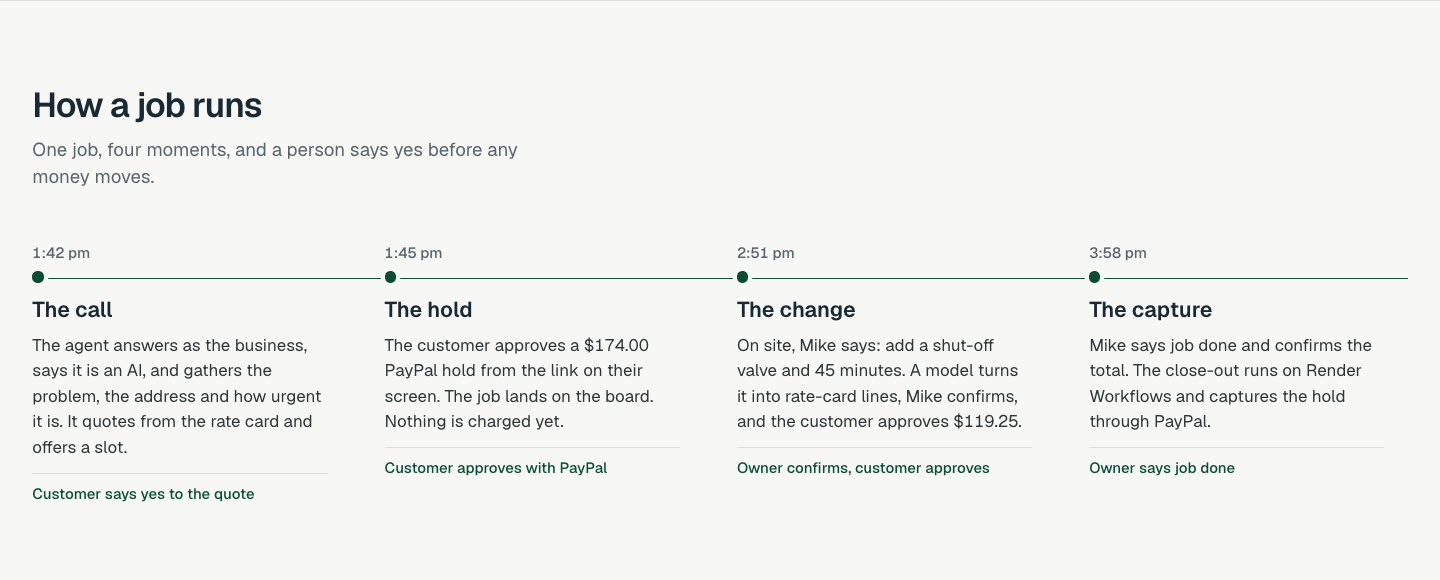
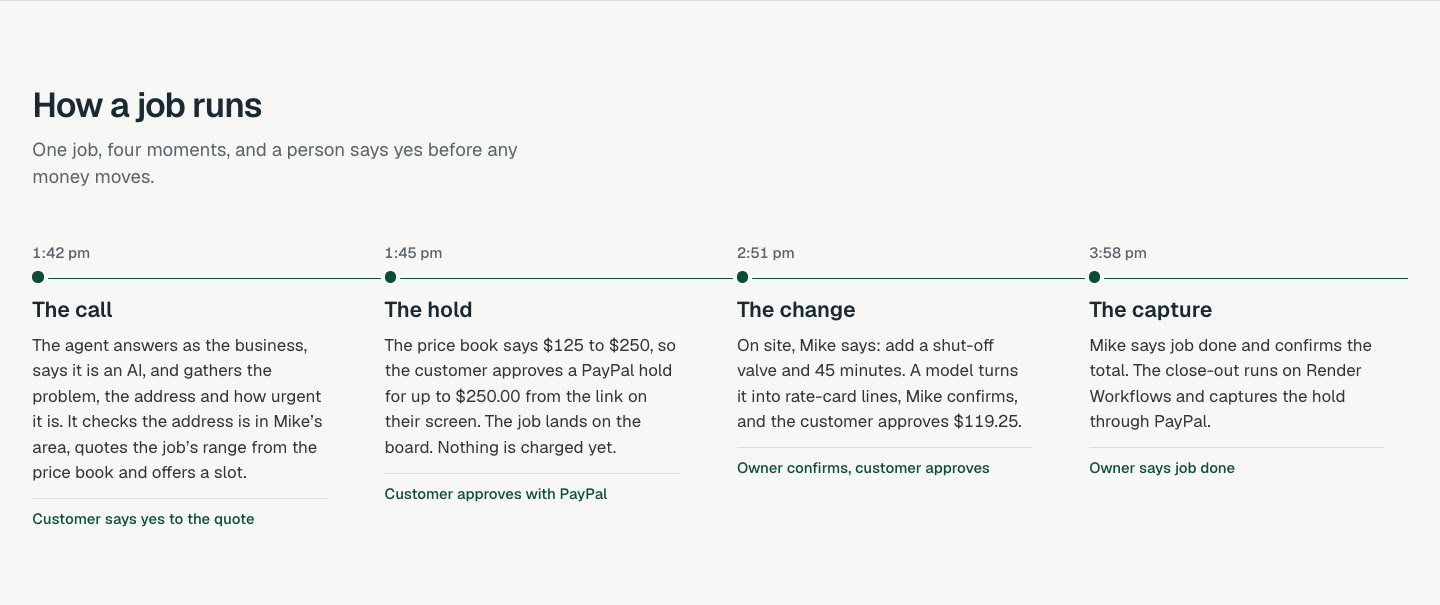
Show the price-book demo on the landing and in the README
The demo job is now a faucet leak repair from the price book, $125 to
$250, held at $250.00 in Saginaw. The landing's tiles, status track,
transcript, totals and four-moment timeline use it, and the money
ledger shows the whole story: the $250.00 hold, the $119.25 change
order, $190.00 captured at job done with $60.00 released, and $309.25
paid. The README explains the price book, the service area and the
top-of-range hold, and its screenshots and banner are re-rendered.

Changed region(s): [[0.0, 0.4034, 0.9688, 0.8379], [0.0, 0.1552, 0.375, 0.3414], [0.0, 0.8379, 0.1875, 0.869]]

diff --git a/src/app/page.tsx b/src/app/page.tsx
@@ -31,14 +31,14 @@ const LIVE_SLOT = { start: 14, end: 16 };
 const TRANSCRIPT = [
   { who: "ai", at: "1:42 pm", text: "Thanks for calling Mike’s Plumbing, this is Mike’s AI assistant. What’s going on?" },
   { who: "caller", at: "1:43 pm", text: "My kitchen tap won’t stop dripping." },
-  { who: "ai", at: "1:44 pm", text: "I can book you this afternoon, 2 to 4 pm. The hold is $174.00. Shall I send the link?" },
+  { who: "ai", at: "1:44 pm", text: "I can book you this afternoon, 2 to 4 pm. PayPal will hold up to $250.00. Shall I send the link?" },
 ] as const;
 
 type Step = { id: string; label: string; lines: string[]; state: "done" | "active" | "waiting" | "idle"; icon: typeof Phone };
 const STEPS: Step[] = [
   { id: "call", label: "Call", lines: ["In progress"], state: "active", icon: Phone },
   { id: "booked", label: "Booked", lines: ["Today", "2:00 – 4:00 pm"], state: "done", icon: CalendarDays },
-  { id: "held", label: "Held", lines: ["$174.00", "with PayPal"], state: "done", icon: Lock },
+  { id: "held", label: "Held", lines: ["$250.00", "with PayPal"], state: "done", icon: Lock },
   { id: "change", label: "Change", lines: ["$119.25", "waiting"], state: "waiting", icon: DollarSign },
   { id: "captured", label: "Captured", lines: ["—"], state: "idle", icon: Check },
 ];
@@ -47,13 +47,13 @@ const RUN = [
   {
     time: "1:42 pm",
     title: "The call",
-    text: "The agent answers as the business, says it is an AI, and gathers the problem, the address and how urgent it is. It quotes from the rate card and offers a slot.",
+    text: "The agent answers as the business, says it is an AI, and gathers the problem, the address and how urgent it is. It checks the address is in Mike’s area, quotes the job’s range from the price book and offers a slot.",
     yes: "Customer says yes to the quote",
   },
   {
     time: "1:45 pm",
     title: "The hold",
-    text: "The customer approves a $174.00 PayPal hold from the link on their screen. The job lands on the board. Nothing is charged yet.",
+    text: "The price book says $125 to $250, so the customer approves a PayPal hold for up to $250.00 from the link on their screen. The job lands on the board. Nothing is charged yet.",
     yes: "Customer approves with PayPal",
   },
   {
@@ -126,12 +126,12 @@ export default function Home() {
                 </span>
                 <span className={s.tileTitle}>
                   <span className={s.tileLabel}>Hold</span>
-                  <span className={`${s.tileAmount} ${s.green}`}>$174.00</span>
+                  <span className={`${s.tileAmount} ${s.green}`}>$250.00</span>
                 </span>
               </div>
               <p className={s.tileText}>
-                (call-out $79 +{" "}
-                <br />1 hour labour $95)
+                (faucet leak repair,{" "}
+                <br />$125 to $250, held at the top)
               </p>
               <p className={`${s.tileStatus} ${s.green}`}>Held with PayPal</p>
             </li>
@@ -175,7 +175,7 @@ export default function Home() {
         <section className={s.board} aria-label="Demo schedule for Mike’s Plumbing">
           <div className={s.boardHead}>
             <span className={s.boardDate}>Today</span>
-            <span className={s.boardOwner}>Mike’s day, Springfield</span>
+            <span className={s.boardOwner}>Mike’s day, Saginaw</span>
             <span className={s.legend}>
               <span className={s.legendBooked}>Booked</span>
               <span className={s.legendHeld}>Held</span>
@@ -265,7 +265,7 @@ export default function Home() {
             <div className={s.stat}>
               <CircleDollarSign aria-hidden="true" className={`${s.statIcon} ${s.green}`} strokeWidth={1.75} />
               <dt>Held</dt>
-              <dd className={`${s.statValue} ${s.green}`}>$174.00</dd>
+              <dd className={`${s.statValue} ${s.green}`}>$250.00</dd>
               <dd className={s.statSub}>1 job</dd>
             </div>
             <div className={s.stat}>
@@ -307,11 +307,14 @@ export default function Home() {
             The money, line by line
           </h2>
           <p className={s.sectionLead}>
-            Every price comes from the owner’s rate card. The agent quotes, reads the amount back and waits for a yes; it can
-            never capture or refund.
+            Every price comes from Mike’s price book. The agent quotes the range, reads the hold back and waits for a yes;
+            it can never capture or refund.
           </p>
           <ul className={s.rules}>
-            <li>The hold is a PayPal authorization: the customer’s money is reserved, not taken.</li>
+            <li>
+              The hold is a PayPal authorization for the top of the price-book range: the customer’s money is reserved, not
+              taken, and they never pay more than they approved.
+            </li>
             <li>
               PayPal lets a hold grow by 15% at most, so a bigger change becomes its own payment that the customer approves.
             </li>
@@ -337,18 +340,13 @@ export default function Home() {
               </th>
             </tr>
             <tr>
-              <td>Call-out</td>
+              <td>Faucet leak repair, price book $125 to $250</td>
               <td>1</td>
-              <td>$79.00</td>
-            </tr>
-            <tr>
-              <td>Labour, 15 minutes</td>
-              <td>4</td>
-              <td>$95.00</td>
+              <td>$250.00</td>
             </tr>
             <tr className={s.ledgerTotal}>
-              <td colSpan={2}>Held with PayPal</td>
-              <td className={s.green}>$174.00</td>
+              <td colSpan={2}>Held with PayPal (the top of the range)</td>
+              <td className={s.green}>$250.00</td>
             </tr>
             <tr className={s.ledgerGroup}>
               <th scope="rowgroup" colSpan={3}>
@@ -369,11 +367,26 @@ export default function Home() {
               <td colSpan={2}>Second PayPal payment</td>
               <td className={s.amber}>$119.25</td>
             </tr>
+            <tr className={s.ledgerGroup}>
+              <th scope="rowgroup" colSpan={3}>
+                At job done, Mike charges the real cost
+              </th>
+            </tr>
+            <tr>
+              <td>Faucet leak repair, captured from the hold</td>
+              <td>1</td>
+              <td>$190.00</td>
+            </tr>
+            <tr>
+              <td>Released back to the customer</td>
+              <td></td>
+              <td>$60.00</td>
+            </tr>
           </tbody>
           <tfoot>
             <tr>
-              <td colSpan={2}>Job total when Mike says job done</td>
-              <td>$293.25</td>
+              <td colSpan={2}>The customer pays $190.00 + $119.25</td>
+              <td>$309.25</td>
             </tr>
           </tfoot>
         </table>

diff --git a/README.md b/README.md
@@ -54,19 +54,20 @@ amount when the work is done. The demo business is Mike's Plumbing, which is fic
 
 ## How it works
 
-1. **The call.** A customer phones the business (a Twilio number) or calls from the browser. The ElevenLabs agent says
-   it is an AI assistant answering for Mike, gathers the problem, the address and how urgent it is, quotes from the
-   rate card and offers a slot.
+1. **The call.** A customer in Mike's area (the Saginaw Tri-Cities, Michigan) phones the business or calls from the
+   browser. The ElevenLabs agent says it is an AI assistant answering for Mike, finds the job in Mike's price book and
+   quotes its range: a dripping faucet is $125 to $250. It offers a slot.
 2. **The hold.** After reading the amount back and hearing a yes, the agent creates a PayPal hold (Orders v2,
-   `intent: AUTHORIZE`) for $174.00 and gives the customer a job code. They approve it on their phone; nothing is
-   charged yet.
+   `intent: AUTHORIZE`) for the top of the range, $250.00, and gives the customer a job code. They approve it on their
+   phone; nothing is charged yet. Major jobs get an estimate visit instead, with no payment.
 3. **The change order.** On site, Mike says "add a shut-off valve and 45 more minutes". It becomes rate-card lines
    ($119.25), Mike confirms, and the customer approves it as a second PayPal payment. PayPal lets a hold grow by 15% at
    most, so a bigger change is its own payment.
-4. **The capture.** Mike says "job done" and confirms the total. The close-out captures the hold and sends a PayPal
-   invoice: marked paid as a receipt, or payable for any leftover balance.
+4. **The capture.** Mike says "job done" and enters the real cost, say $190.00. The close-out captures that much from
+   the hold, releases the rest, and sends a PayPal invoice: marked paid as a receipt, or payable for any leftover
+   balance.
 
-Nobody pays without saying yes, and every price comes from the rate card, checked in code.
+Nobody pays without saying yes, nobody pays more than they approved, and every price comes from the price book, checked in code.
 
 <img src="assets/screens/landing.jpg" width="100%" alt="Ringside landing page: the pitch and call button on the left, the owner's day board on the right with a live job card, its transcript and a status track">
 
@@ -96,7 +97,8 @@ Measured against the real PayPal sandbox and the real phone line on 2026-11-05.
 |---|---|---|
 | Phone line | Twilio US number, imported into ElevenLabs | Callers dial the business and land straight on the agent ([`scripts/gates/setup-voice.mjs`](scripts/gates/setup-voice.mjs)) |
 | Voice agent | ElevenLabs Agents; LLM `deepseek-v41-flash` (hosted by ElevenLabs); voice "Chris" on `eleven_v4_turbo` | Answers as Mike's AI assistant and gathers the job; its server tools read the rate card, find open windows, save the quote, book it and send the PayPal hold link only after the customer says yes ([`src/lib/agent-tools.ts`](src/lib/agent-tools.ts), [`src/lib/slots.ts`](src/lib/slots.ts)) |
-| Prices | The rate card in code, money in integer cents | Every price comes from here; labour is billed in 15-minute blocks of $23.75 ([`src/lib/rate-card.ts`](src/lib/rate-card.ts), [`src/lib/money.ts`](src/lib/money.ts)) |
+| Prices | Mike's price book (about 140 jobs as USD ranges) and fixed-price add-ons for change orders, money in integer cents | Every quote comes from the book and holds the top of its range; add-ons are parts and labour in 15-minute blocks of $23.75 ([`src/lib/price-book.ts`](src/lib/price-book.ts), [`src/lib/rate-card.ts`](src/lib/rate-card.ts)) |
+| Service area | The Saginaw Tri-Cities by ZIP and city | Callers outside it get no booking and no payment ([`src/lib/service-area.ts`](src/lib/service-area.ts)) |
 | Payments | PayPal Orders v2 (`AUTHORIZE`, `CAPTURE`), Payments v2 (capture, void), Webhooks | The hold, the change order's second payment, the capture; every POST carries a stored `PayPal-Request-Id` ([`src/lib/paypal.ts`](src/lib/paypal.ts)) |
 | Invoices | PayPal Invoicing v2 (being built) | The receipt at job done, or a payable invoice for a leftover balance |
 | Change-order parser | Claude Sonnet 5.5 (`claude-sonnet-5-5`, Anthropic API) with structured output (being built) | Turns Mike's spoken change into rate-card lines; the code rejects anything not on the card |
@@ -105,7 +107,7 @@ Measured against the real PayPal sandbox and the real phone line on 2026-11-05.
 | App | Next.js 16 (App Router), React 19, TypeScript 5.9, Geist, lucide-react | The landing page now; the call page, the customer's approval page and the owner's screens next ([`src/app/`](src/app/page.tsx)) |
 | Schedule board | Bryntum Scheduler Community (being built) | Mike's day, every call with its cost and outcome, and each job's money |
 | Hosting | Render web service and Render Postgres from one Blueprint | Always on; migrations run before every deploy ([`render.yaml`](render.yaml), [`scripts/migrate.mjs`](scripts/migrate.mjs)) |
-| Checks | Vitest, ESLint, GitHub Actions with a Postgres 18 service | 49 tests, including the PayPal client against recorded sandbox responses ([`test/`](test/paypal.test.ts)) |
+| Checks | Vitest, ESLint, GitHub Actions with a Postgres 18 service | 57 tests, including the PayPal client against recorded sandbox responses ([`test/`](test/paypal.test.ts)) |
 
 PayPal runs in the sandbox only: the server refuses to start unless `PAYPAL_ENV=sandbox`.
 
